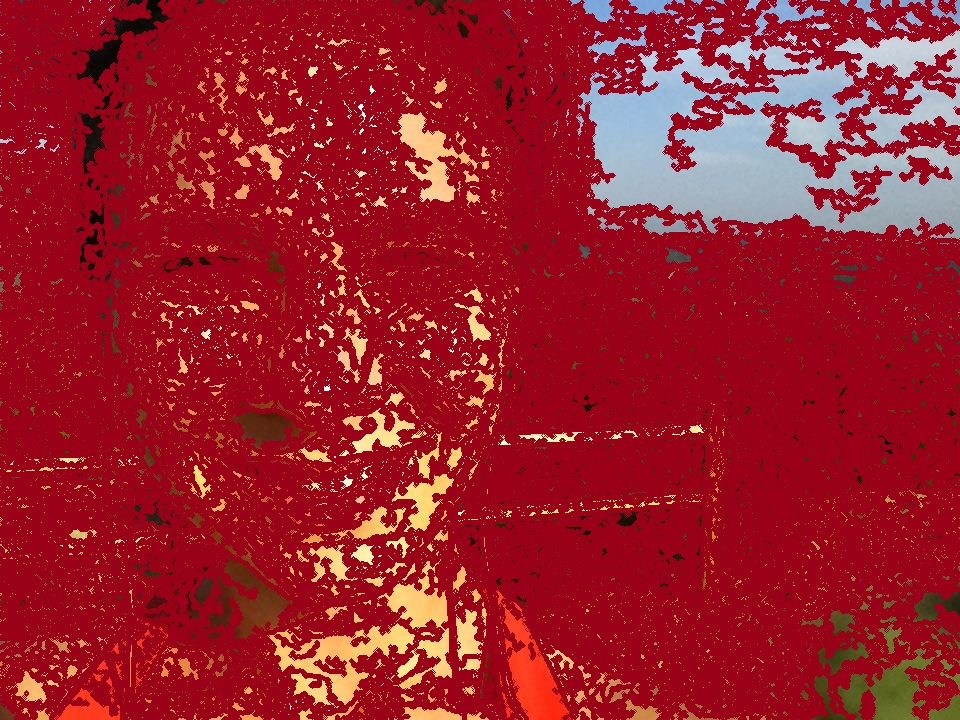
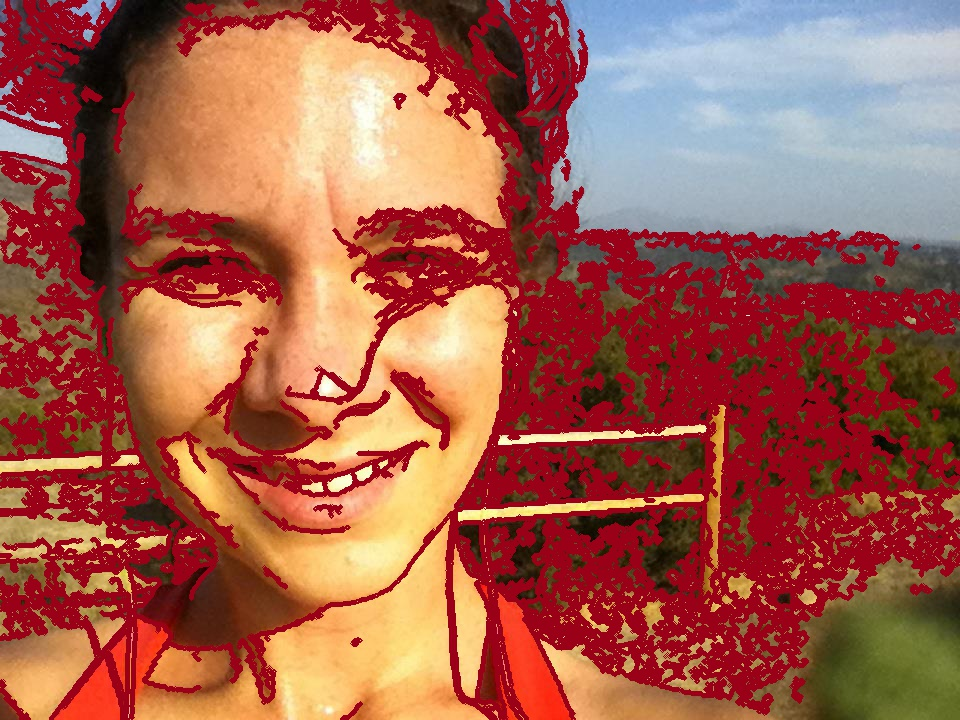
Improved canny image for presentation

diff --git a/Code/canny.py b/Code/canny.py
@@ -1,10 +1,10 @@
 import cv
 
 image = cv.LoadImage('vwehner.jpeg')
-#image = cv.LoadImage('vwehner.jpeg',cv.CV_LOAD_IMAGE_GRAYSCALE)
+grey = cv.LoadImage('vwehner.jpeg',cv.CV_LOAD_IMAGE_GRAYSCALE)
 
 cornerMap = cv.CreateImage(cv.GetSize(image), 8, 1)
-cv.Canny(image, cornerMap, 50, 5, 3)
+cv.Canny(grey, cornerMap, 50, 150)
 
 for y in range(0, image.height):
     for x in range(0, image.width):
